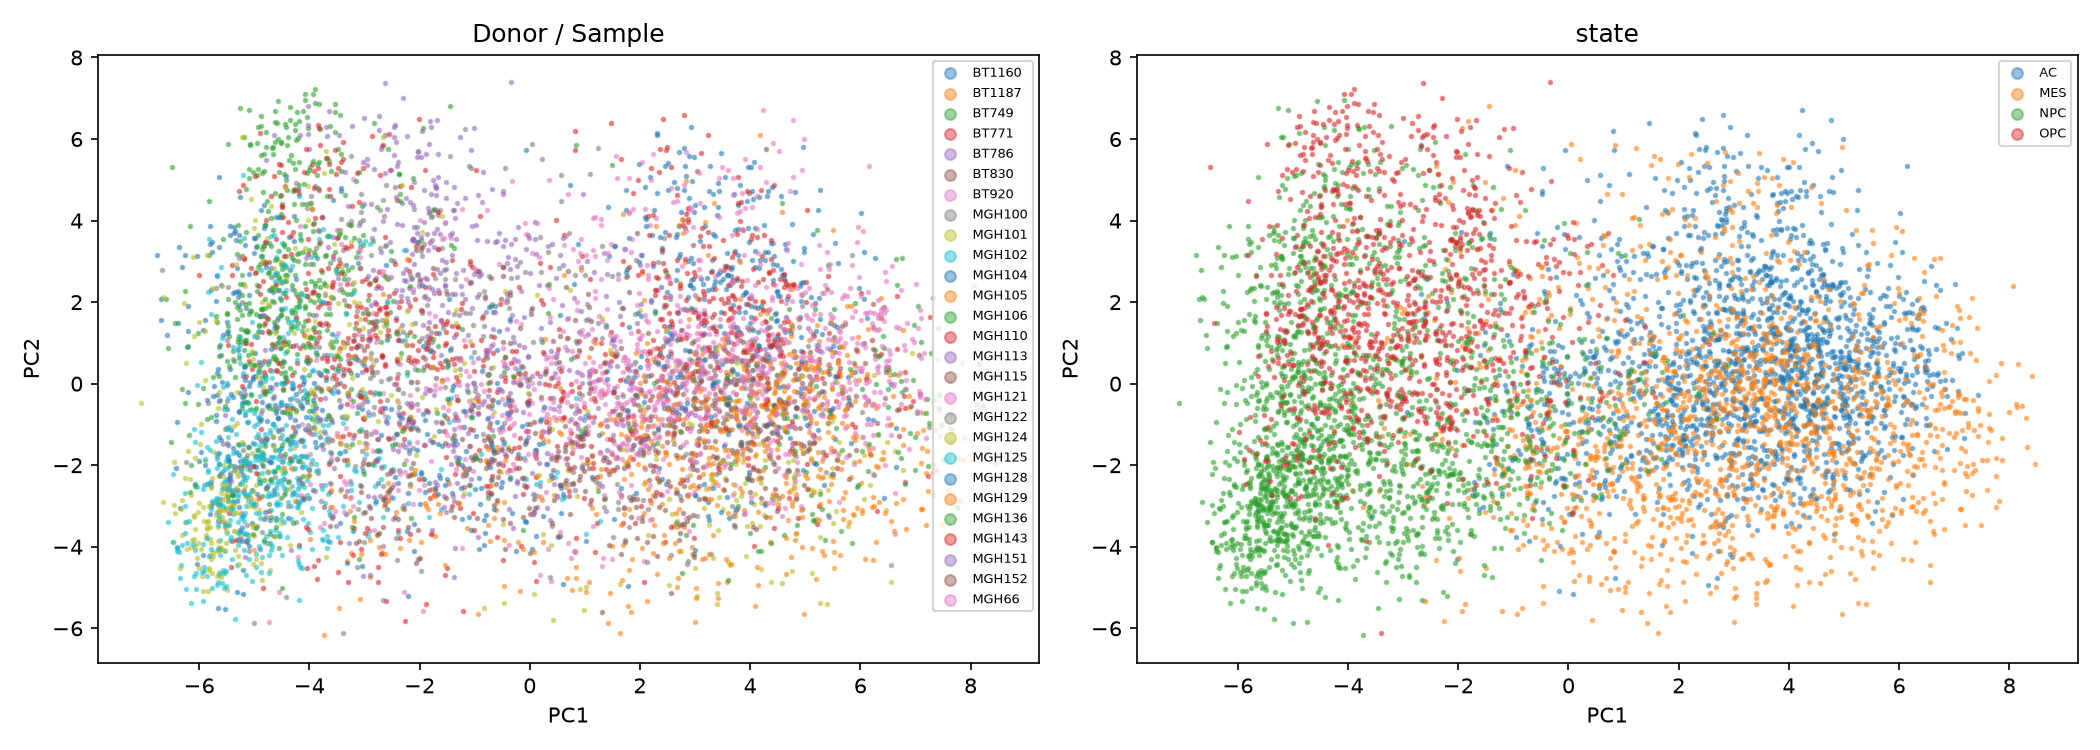
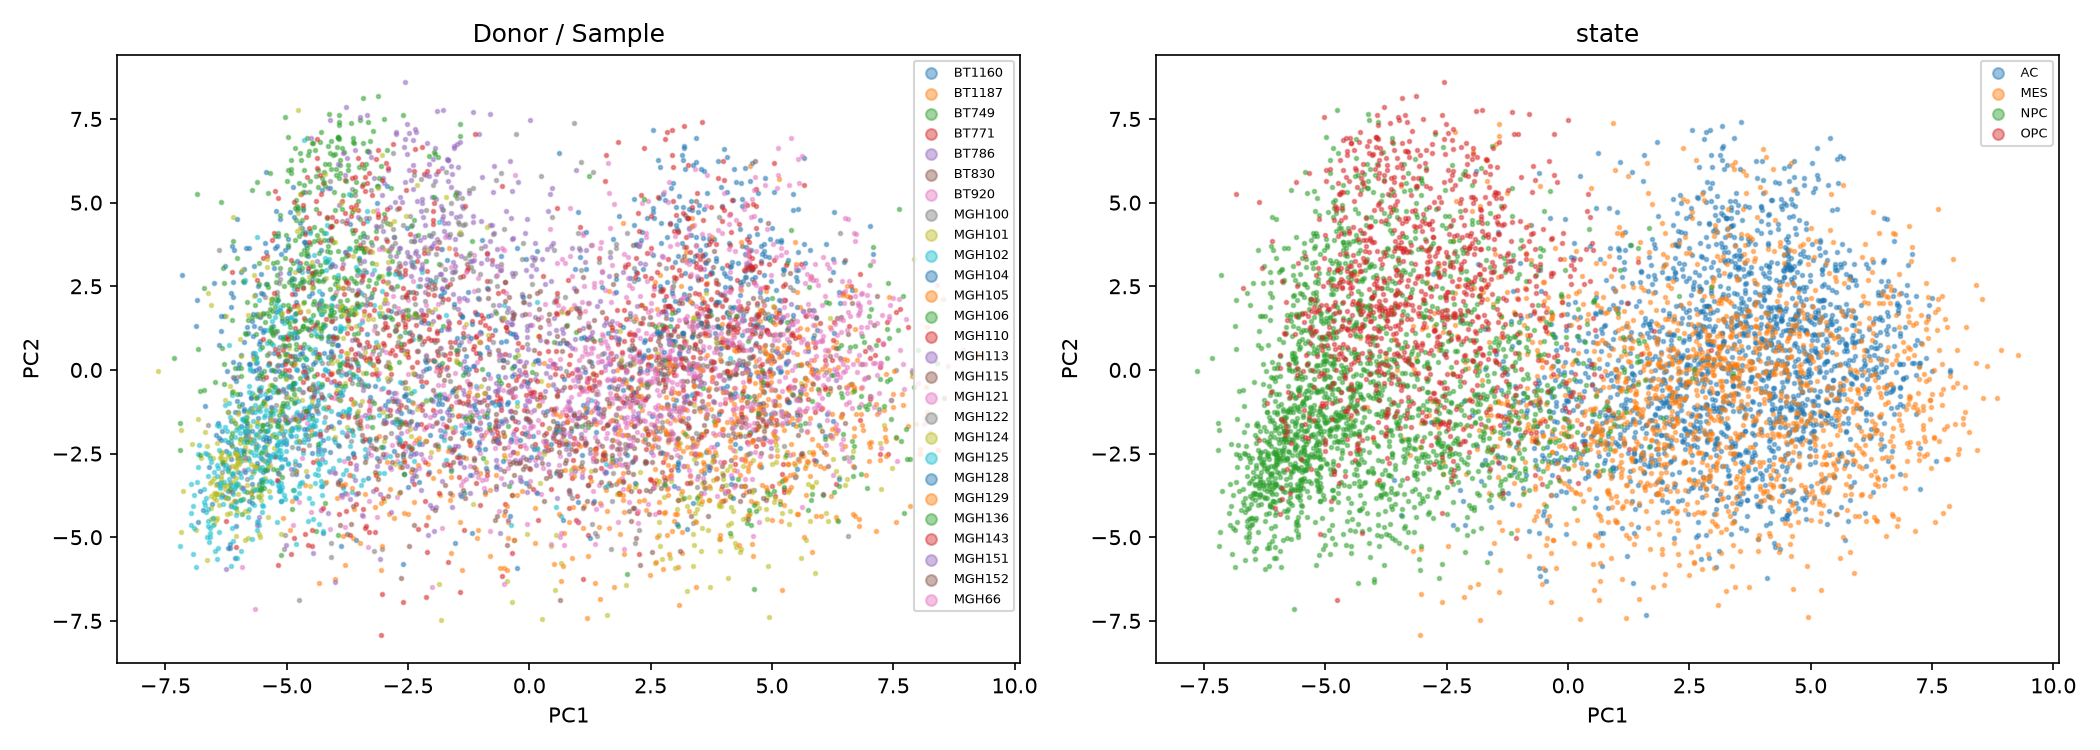
removed cgga

diff --git a/preprocess_full.py b/preprocess_full.py
@@ -1,6 +1,4 @@
-import glob
 import os
-import zipfile
 
 import anndata as ad
 import pandas as pd
@@ -121,94 +119,49 @@ def load_neftel(data_dir="data/raw/neftel", processed_dir="data/processed"):
 
 
 # ---------------------------------------------------------------------------
-# CGGA (bulk RSEM) loader
+# TCGA (bulk RSEM) loader
 # ---------------------------------------------------------------------------
 
-def _find_cgga_zip(cgga_dir, tokens):
-    """Matches CGGA zip filenames regardless of dot vs. underscore naming
-    convention -- your uploads use underscores throughout
-    (CGGA_mRNAseq_325_RSEM-genes_20200506_txt.zip), the CGGA site's own
-    convention uses dots (CGGA.mRNAseq_325.RSEM-genes.20200506.txt.zip)."""
-    for c in glob.glob(os.path.join(cgga_dir, "*.zip")):
-        base = os.path.basename(c).lower()
-        if all(tok.lower() in base for tok in tokens):
-            return c
-    return None
+def load_tcga(tcga_dir="data/raw/tcga"):
+    """Loads TCGA PanCancer Atlas RSEM expression matrix (data_mrna_seq_v2_rsem.txt).
 
+    cBioPortal's RSEM export has genes as rows (Hugo_Symbol, Entrez_Gene_Id,
+    then one column per sample barcode) -- opposite orientation from Neftel's
+    raw matrix, so this transposes explicitly rather than relying on the
+    shape-guess used elsewhere. A small number of rows have no Hugo_Symbol
+    (unnamed/uncharacterized loci) or a duplicate symbol across different
+    Entrez IDs; both are dropped since var_names must be unique and
+    symbol-matchable against Neftel.
+    """
+    expr_path = os.path.join(tcga_dir, "data_mrna_seq_v2_rsem.txt")
+    if not os.path.exists(expr_path):
+        raise FileNotFoundError(f"TCGA expression file not found at {expr_path}")
 
-def _read_first_real_member(zpath):
-    """Reads the first zip member that isn't __MACOSX junk (namelist()[0]
-    order isn't guaranteed to put the real file first on every platform)."""
-    with zipfile.ZipFile(zpath, "r") as z:
-        real_members = [
-            n for n in z.namelist()
-            if not n.startswith("__MACOSX")
-            and not os.path.basename(n).startswith("._")
-            and n.lower().endswith(".txt")
-        ]
-        if not real_members:
-            raise FileNotFoundError(f"No usable .txt member found in {zpath}")
-        with z.open(real_members[0]) as f:
-            return pd.read_csv(f, sep="\t", index_col=0, low_memory=False)
+    print(f"[Loading] Parsing raw TCGA RSEM matrix: {expr_path}...")
+    df = pd.read_csv(expr_path, sep="\t")
 
+    n_before = len(df)
+    df = df[df["Hugo_Symbol"].notna()].copy()
+    df = df.drop_duplicates(subset="Hugo_Symbol", keep="first")
+    print(f"[TCGA] Dropped {n_before - len(df)} rows with missing/duplicate Hugo_Symbol "
+          f"({len(df)} genes retained).")
 
-def load_cgga(cgga_dir="data/raw/cgga"):
-    """Parses zipped CGGA RSEM mRNA-seq matrices (325 and 693 cohorts)."""
-    cgga_adatas = []
-    cohort_specs = [("325", ["325", "rsem"]), ("693", ["693", "rsem"])]
+    df = df.set_index("Hugo_Symbol").drop(columns=["Entrez_Gene_Id"])
+    df = df.T  # genes are rows in the raw file -- transpose to samples x genes
 
-    for cohort_id, tokens in cohort_specs:
-        zpath = _find_cgga_zip(cgga_dir, tokens)
-        if zpath is None:
-            print(f"[Warning] Could not find a CGGA {cohort_id} RSEM zip in {cgga_dir} "
-                  f"(looked for files containing {tokens}).")
-            continue
+    adata = ad.AnnData(
+        X=df.values,
+        obs=pd.DataFrame(index=df.index),
+        var=pd.DataFrame(index=df.columns),
+    )
+    adata.obs["Sample"] = adata.obs.index.astype(str)
 
-        print(f"[Loading] Unzipping and reading {os.path.basename(zpath)}...")
-        df = _read_first_real_member(zpath)
-
-        if df.shape[0] > df.shape[1]:
-            df = df.T
-
-        adata_part = ad.AnnData(
-            X=df.values,
-            obs=pd.DataFrame(index=df.index),
-            var=pd.DataFrame(index=df.columns),
-        )
-        adata_part.obs["Sample"] = adata_part.obs.index
-        adata_part.obs["CGGA_cohort_size"] = cohort_id
-        cgga_adatas.append(adata_part)
-
-    if not cgga_adatas:
-        return None
-
-    print("[Merging] Combining CGGA 325 and 693 cohorts...")
-    return ad.concat(cgga_adatas, merge="unique", join="inner")
+    return adata
 
 
 # ---------------------------------------------------------------------------
-# Clinical metadata join (new -- did not exist in the original pipeline)
+# Clinical metadata join (TCGA only -- CGGA excluded from the internal cohort)
 # ---------------------------------------------------------------------------
-
-def _load_cgga_clinical(cgga_dir):
-    frames = []
-    for tokens in (["325", "clinical"], ["693", "clinical"]):
-        zpath = _find_cgga_zip(cgga_dir, tokens)
-        if zpath is None:
-            continue
-        df = _read_first_real_member(zpath).reset_index()
-        id_col = df.columns[0]  # CGGA_ID
-        df["clean_id"] = df[id_col].astype(str).apply(clean_id)
-        frames.append(df)
-
-    if not frames:
-        return pd.DataFrame()
-
-    clinical = pd.concat(frames, ignore_index=True).drop_duplicates("clean_id")
-    clinical = clinical.set_index("clean_id")
-    clinical = clinical.rename(columns={"IDH_mutation_status": "IDH_status"})
-    return clinical[["IDH_status"]] if "IDH_status" in clinical.columns else pd.DataFrame()
-
 
 def _load_tcga_clinical(tcga_dir):
     """data_clinical_sample.txt has its real header on line 5 (four leading
@@ -225,59 +178,18 @@ def _load_tcga_clinical(tcga_dir):
     keep = [c for c in ["IDH_status", "Bulk_subtype"] if c in df.columns]
     return df[keep]
 
-def load_tcga(tcga_dir="data/raw/tcga"):
-    """Loads TCGA PanCancer Atlas RSEM expression matrix (data_mrna_seq_v2_rsem.txt).
-
-    cBioPortal's RSEM export has genes as rows (Hugo_Symbol, Entrez_Gene_Id,
-    then one column per sample barcode) -- opposite orientation from Neftel's
-    raw matrix, so this transposes explicitly rather than relying on the
-    shape-guess used elsewhere. A small number of rows have no Hugo_Symbol
-    (unnamed/uncharacterized loci) or a duplicate symbol across different
-    Entrez IDs; both are dropped since var_names must be unique and
-    symbol-matchable against Neftel/CGGA.
-    """
-    expr_path = os.path.join(tcga_dir, "data_mrna_seq_v2_rsem.txt")
-    if not os.path.exists(expr_path):
-        raise FileNotFoundError(f"TCGA expression file not found at {expr_path}")
-
-    print(f"[Loading] Parsing raw TCGA RSEM matrix: {expr_path}...")
-    df = pd.read_csv(expr_path, sep="\t")
-
-    n_before = len(df)
-    df = df[df["Hugo_Symbol"].notna()].copy()
-    df = df.drop_duplicates(subset="Hugo_Symbol", keep="first")
-    print(f"[TCGA] Dropped {n_before - len(df)} rows with missing/duplicate Hugo_Symbol "
-          f"({len(df)} genes retained).")
-
-    df = df.set_index("Hugo_Symbol").drop(columns=["Entrez_Gene_Id"])
-
-    # genes are rows, samples are columns in the raw file -- transpose so
-    # samples become obs (rows) and genes become var (columns), matching
-    # every other loader in this module.
-    df = df.T
-
-    adata = ad.AnnData(
-        X=df.values,
-        obs=pd.DataFrame(index=df.index),
-        var=pd.DataFrame(index=df.columns),
-    )
-    adata.obs["Sample"] = adata.obs.index.astype(str)
-
-    return adata
-
 
 def merge_clinical_metadata(adata_full, raw_dir="data/raw"):
-    """Joins CGGA + TCGA clinical metadata into adata_full.obs on cleaned
-    patient ID, producing one standardized 'IDH_status' column
-    ('WT'/'Mutant'/NaN). Call after ad.concat(), before HVG selection."""
-    cgga_clin = _load_cgga_clinical(os.path.join(raw_dir, "cgga"))
+    """Joins TCGA clinical metadata into adata_full.obs on cleaned patient ID,
+    producing one standardized 'IDH_status' column ('WT'/'Mutant'/NaN).
+    Call after ad.concat(), before HVG selection.
+    (CGGA clinical join intentionally omitted -- CGGA is not part of the
+    internal cohort this function operates on.)
+    """
     tcga_clin = _load_tcga_clinical(os.path.join(raw_dir, "tcga"))
 
-    clinical = pd.concat([cgga_clin, tcga_clin])
-    clinical = clinical[~clinical.index.duplicated(keep="first")]
-
     adata_full.obs["clean_id"] = adata_full.obs["Sample"].astype(str).apply(clean_id)
-    adata_full.obs = adata_full.obs.join(clinical, on="clean_id")
+    adata_full.obs = adata_full.obs.join(tcga_clin, on="clean_id")
 
     if "IDH_status" in adata_full.obs.columns:
         adata_full.obs["IDH_status"] = adata_full.obs["IDH_status"].replace(
@@ -286,73 +198,80 @@ def merge_clinical_metadata(adata_full, raw_dir="data/raw"):
         n_missing = adata_full.obs["IDH_status"].isna().sum()
         print(f"[Clinical Join] IDH_status resolved for "
               f"{adata_full.n_obs - n_missing}/{adata_full.n_obs} samples "
-              f"({n_missing} unmatched).")
+              f"({n_missing} unmatched -- expected for all Neftel cells, "
+              f"which have their own IDH annotation elsewhere).")
     else:
-        print("[Warning] No IDH_status could be joined -- check that raw_dir/cgga "
-              "and raw_dir/tcga clinical files are present.")
+        print("[Warning] No IDH_status could be joined -- check that raw_dir/tcga "
+              "clinical file is present.")
 
     return adata_full
 
 
 # ---------------------------------------------------------------------------
-# Full cohort assembly
+# Full internal cohort assembly (Neftel + TCGA only -- CGGA excluded)
 # ---------------------------------------------------------------------------
 
 def build_full_cohort(
         raw_dir="data/raw", output_dir="data/processed", config_path="config/qc.yaml"
 ):
+    """Builds the full INTERNAL cohort: Neftel + TCGA only.
+
+    CGGA is deliberately excluded here. Per Week 1 ("CGGA held out entirely")
+    and Week 4 ("Preprocess CGGA with the frozen Week 1 thresholds... the
+    whole external comparison dies if we touch this"), CGGA's expression
+    data must remain completely unprocessed until its own dedicated Week 4
+    step, where it serves as the untouched external validation cohort.
+    """
     qc_cfg = load_qc_config(config_path)
     adatas = []
+    neftel_states = None
 
     try:
         adata_neftel = load_neftel(os.path.join(raw_dir, "neftel"), output_dir)
-        neftel_states = None
+        # Capture state BEFORE process_single_matrix/concat: TCGA has no
+        # equivalent per-cell state column, and ad.concat(join="inner")
+        # silently drops any obs column not common to every input cohort.
         if "state" in adata_neftel.obs.columns:
-            neftel_states = adata_neftel.obs[["Sample", "state"]].copy()
-            neftel_states["cell_id"] = adata_neftel.obs.index
+            neftel_states = adata_neftel.obs[["state"]].copy()
+            neftel_states.index = adata_neftel.obs.index
         adata_neftel = process_single_matrix(adata_neftel, qc_cfg, "Neftel")
         adatas.append(adata_neftel)
     except Exception as e:
         print(f"[Warning] Could not load Neftel: {e}")
-        neftel_states = None
 
-    try:
-        adata_cgga = load_cgga(os.path.join(raw_dir, "cgga"))
-        if adata_cgga is not None:
-            adata_cgga = process_single_matrix(adata_cgga, qc_cfg, "CGGA")
-            adatas.append(adata_cgga)
-    except Exception as e:
-        print(f"[Warning] Could not load CGGA: {e}")
-    try:
-        adata_tcga = load_tcga(os.path.join(raw_dir, "tcga"))
-        if adata_tcga is not None:
-            adata_cgga = process_single_matrix(adata_cgga, qc_cfg, "CGGA")
-            adatas.append(adata_cgga)
-    except Exception as e:
-        print(f"[Warning] Could not load CGGA: {e}")
     try:
         adata_tcga = load_tcga(os.path.join(raw_dir, "tcga"))
         adata_tcga = process_single_matrix(adata_tcga, qc_cfg, "TCGA")
         adatas.append(adata_tcga)
     except Exception as e:
         print(f"[Warning] Could not load TCGA: {e}")
+
     if not adatas:
         raise FileNotFoundError(f"No valid cohort matrices could be built from {raw_dir}.")
 
-    print("\n[Merging] Combining all datasets into full cohort...")
+    print("\n[Merging] Combining Neftel + TCGA into full internal cohort...")
     adata_full = ad.concat(adatas, merge="unique", join="inner")
     adata_full.obs_names_make_unique()
 
+    # Rejoin Neftel's per-cell state (dropped by the inner-join concat above,
+    # since TCGA has no equivalent column). Uses the pre-concat Neftel index,
+    # matched by position within the Neftel block of adata_full since
+    # obs_names_make_unique() may have altered raw index strings.
     if neftel_states is not None:
-        adata_full.obs["state"] = adata_full.obs.index.map(
-            neftel_states.set_index("cell_id")["state"]
-        )
+        neftel_mask = adata_full.obs["Cohort"] == "Neftel"
+        n_neftel_in_full = int(neftel_mask.sum())
+        if n_neftel_in_full == len(neftel_states):
+            adata_full.obs.loc[neftel_mask, "state"] = neftel_states["state"].to_numpy()
+        else:
+            print(f"[Warning] Neftel cell count changed during QC filtering "
+                  f"({len(neftel_states)} pre-QC vs {n_neftel_in_full} post-QC); "
+                  f"re-deriving state alignment by index instead of position.")
+            state_lookup = neftel_states["state"]
+            adata_full.obs["state"] = adata_full.obs_names.map(state_lookup)
         n_with_state = adata_full.obs["state"].notna().sum()
         print(f"[State Rejoin] state resolved for {n_with_state}/{adata_full.n_obs} cells "
-              f"(non-Neftel cells correctly have no state).")
+              f"(non-Neftel rows correctly have no state).")
 
-    # NEW: join clinical metadata (IDH status, TCGA bulk subtype) BEFORE HVG
-    # selection so downstream pilot stratification has something to work with.
     adata_full = merge_clinical_metadata(adata_full, raw_dir)
 
     n_top_genes = qc_cfg["hvg_selection"]["n_top_genes"]
@@ -368,9 +287,11 @@ def build_full_cohort(
     full_out_path = os.path.join(output_dir, "full_cohort_neftel_tcga.h5ad")
     adata_full.write(full_out_path)
 
-    print(f"\n[Saved] Successfully compiled full dataset to: {full_out_path}")
+    print(f"\n[Saved] Successfully compiled full INTERNAL cohort (Neftel + TCGA) to: {full_out_path}")
     print(f"Total cells/samples: {adata_full.n_obs}, Total genes: {adata_full.n_vars}")
     print(f"Cohort Breakdown:\n{adata_full.obs['Cohort'].value_counts()}")
+    print("\nCGGA was NOT included -- it is preprocessed separately in Week 4 "
+          "as the untouched external validation cohort.")
 
 
 if __name__ == "__main__":

diff --git a/scripts/run_full_donor_batch_audit.py b/scripts/run_full_donor_batch_audit.py
@@ -52,7 +52,7 @@ def cohort_level_audit(adata, output_dir: Path, seed: int) -> dict[str, Any]:
         "figure": str(figure_path),
         "interpretation": (
             "Cohort-level separation here reflects Neftel (single-cell) vs "
-            "CGGA/TCGA (bulk RNA-seq) being different assay types, not "
+            "TCGA (bulk RNA-seq) being different assay types, not "
             "purely a donor/technical batch effect within one assay. "
             "Report as an assay-type effect, not conflated with the "
             "within-cohort donor/state finding below."
